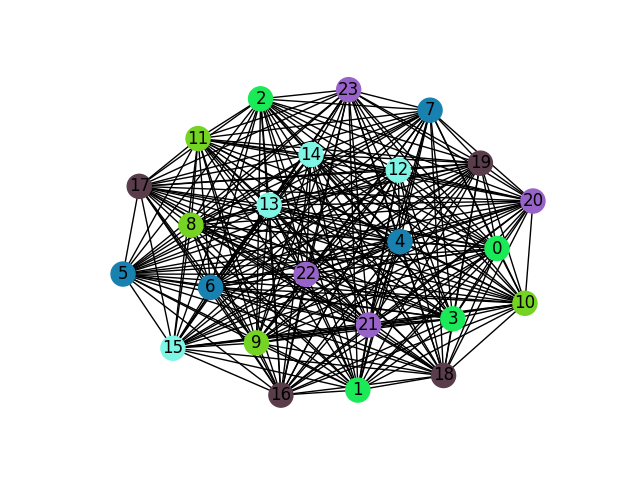
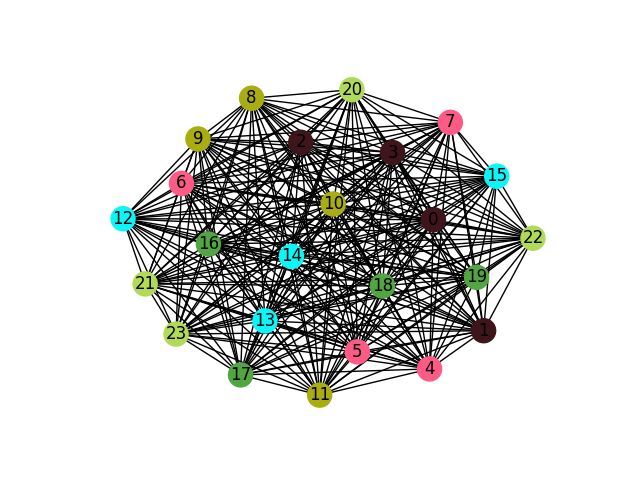
aadded objective functions and alg for testing

Changed region(s): [[0.1562, 0.1562, 0.875, 0.8438]]

diff --git a/graph_part.py b/graph_part.py
@@ -2,7 +2,8 @@ import networkx as nx
 import matplotlib.pyplot as plt
 import nxmetis
 from random import randint
-
+import numpy as np
+import pymetis
 
 def draw_graph(partitioning, alg_name, graph_type, num):
     fig = plt.figure()
@@ -17,8 +18,100 @@ def draw_graph(partitioning, alg_name, graph_type, num):
     nx.draw(G, ax=fig.add_subplot(), node_color=color_map, with_labels=True)
     fig.savefig("graphs/" + alg_name + "-" +  graph_type + "-" + str(num) + ".png")
 
+def cut(G, groups, first_group, second_group):
+    cut_size = 0
+    for edge in G.edges:
+        if (str(edge[0]) in groups[first_group] and str(edge[1]) in groups[second_group]) or (str(edge[1]) in groups[first_group] and str(edge[0]) in groups[second_group]):
+            cut_size += 1
+    return cut_size
+
+def vol(G, groups, group_num):
+    degree = 0
+    for i in groups[group_num]:
+        degree += G.degree(int(i))
+    return degree
+
+def min_cut(G, groups):
+    cut_size = 0
+    for edge in G.edges:
+        #print("EDGE", edge, edge[0], edge[1])
+        for group_num in range(len(groups)):
+            #print("GROUP", group_num)
+            if str(edge[0]) in groups[group_num] and str(edge[1]) not in groups[group_num]:
+                cut_size += 1
+    return cut_size
+
+def ratio_cut(G, groups):
+    res = 0
+    for i in range(len(groups)):
+        for j in range(i, len(groups)):
+            if i != j:
+                print(cut(G, groups, i, j)/len(groups[i]), cut(G, groups, i, j)/len(groups[j]))
+                res += cut(G, groups, i, j)/len(groups[i]) + cut(G, groups, i, j)/len(groups[j])
+    return res
+
+def normilized_cut(G, groups):
+    res = 0
+    for i in range(len(groups)):
+        for j in range(i, len(groups)):
+            if i != j:
+                print(cut(G, groups, i, j)/vol(G, groups, i) + cut(G, groups, i, j)/vol(G, groups, j))
+                res += cut(G, groups, i, j)/vol(G, groups, i) + cut(G, groups, i, j)/vol(G, groups, j)
+    return res
+
+def quotient_cut(G, groups):
+    res = 0
+    for i in range(len(groups)):
+        for j in range(i, len(groups)):
+            if i != j:
+                print(cut(G, groups, i, j)/min(vol(G, groups, i), vol(G, groups, j)), vol(G, groups, i), vol(G, groups, j))
+                res += cut(G, groups, i, j)/min(vol(G, groups, i), vol(G, groups, j))
+    return res
+
+def generate_subgraphs(topology, num_of_subgraphs):
+        adjacency_list, nodes = [], []
+        for i in topology.nodes(): 
+            if np.fromiter(topology.neighbors(i), int).size != 0:
+                adjacency_list.append(np.fromiter(topology.neighbors(i), int))
+        n_cuts, membership = pymetis.part_graph(num_of_subgraphs, adjacency=adjacency_list)
+        for i in range(num_of_subgraphs):
+            nodes.append(np.argwhere(np.array(membership) == i).ravel())
+            nodes[i] = [str(x) for x in nodes[i]]
+        print("SUBGRAPHS", nodes)
+        return nodes
+
+def swap(G, groups):
+    i, j = randint(0, len(groups)-1), randint(0, len(groups)-1)
+    if i == j:
+        j = (i + 1) % len(groups)
+    i_a, j_b = randint(0, len(groups[i])-1), randint(0, len(groups[j])-1)
+    temp = groups[i][i_a]
+    groups[i][i_a] = groups[j][j_b]
+    groups[j][j_b] = temp
+    return groups
+
+def get_partition(G, subgraphs_num):
+    prev, iters = 0, 0
+    groups = generate_subgraphs(G, subgraphs_num)
+    while iters < 200:
+        print("groups", groups)
+        obj_func = min_cut(G, groups)
+        print("RATIO", ratio_cut(G, groups))
+        print("normilized", normilized_cut(G, groups))
+        print("quotient", quotient_cut(G, groups))
+        print("OBJ FUNC", obj_func)
+        if iters == 0:
+            prev = obj_func
+        if obj_func >= prev and iters > 10:
+            return prev
+        groups = swap(G, groups)
+        iters += 1
+        prev  = obj_func
+    return prev
+
 G = nx.complete_graph(24)
 for num in [2, 4, 6, 8]:
     partitioning = nxmetis.partition(G, num)[1]
     print(num, partitioning)
     draw_graph(partitioning, "metis", "complete", num)
+print(get_partition(G, 4))
